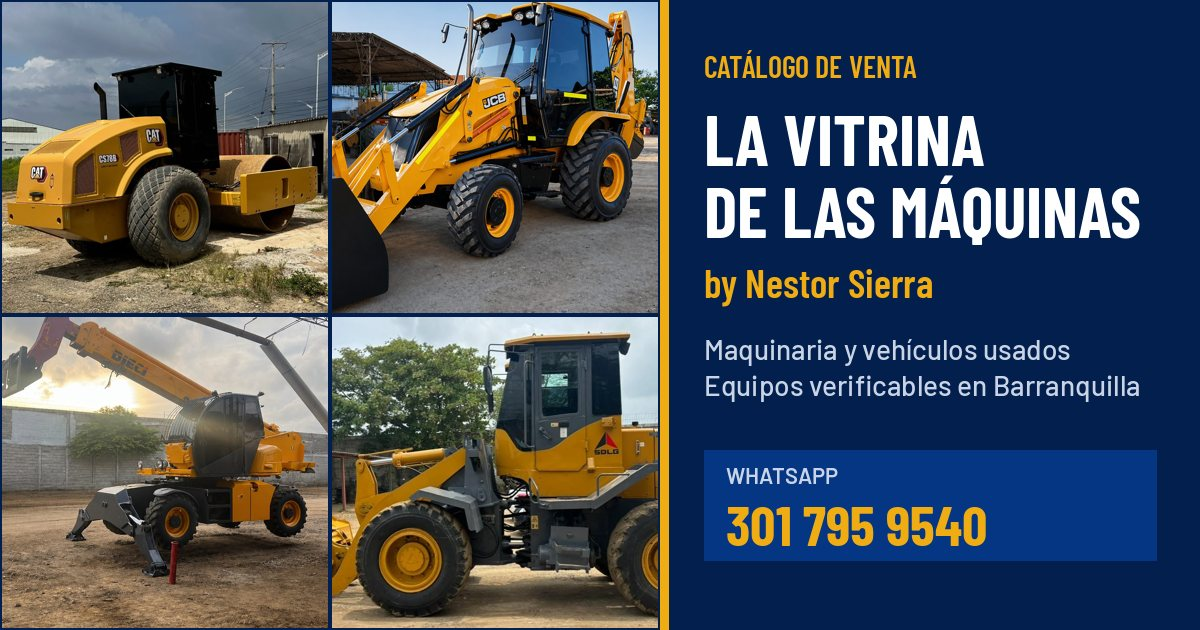
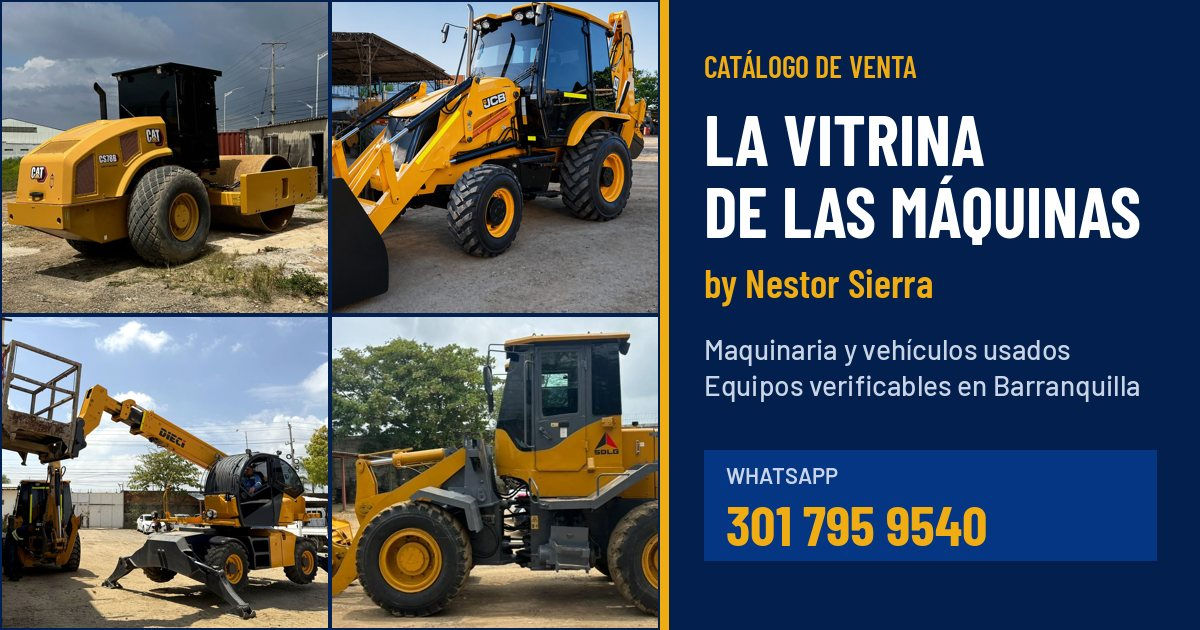
Nueva foto del Dieci Pegasus 38.16
Claude-Session: https://claude.ai/code/session_01MM6jsyr7xuhLnbkmWTmaAm

Changed region(s): [[0.0, 0.4825, 0.2775, 1.0]]

diff --git a/index.html b/index.html
@@ -161,7 +161,7 @@ footer strong { color: var(--blanco); font-family: var(--display); font-size: 20
 <script>
 // precio y anio en número para ordenar; precio 0 = a consultar
 const EQUIPOS = [
-  { img: "img/dieci.jpg", tipo: "Elevación", cat: "Manipulador telescópico rotativo", nombre: "Dieci Pegasus 38.16", anio: 2018, uso: "6.000 h", precio: 200000000,
+  { img: "img/dieci2.jpg", tipo: "Elevación", cat: "Manipulador telescópico rotativo", nombre: "Dieci Pegasus 38.16", anio: 2018, uso: "6.000 h", precio: 200000000,
     specs: [["Capacidad máx.", "3.800 kg"], ["Altura de elevación", "15,7 m"], ["Giro de torreta", "400°"], ["Tracción", "4x4"]] },
   { img: "img/mg120_a.jpg", tipo: "Motoniveladoras", cat: "Motoniveladora", nombre: "Caterpillar 120G", anio: 2007, uso: "12.000 h", precio: 270000000,
     specs: [["Motor", "Caterpillar 3304"], ["Potencia", "125 hp"], ["Peso operativo", "11.500 kg aprox."], ["Transmisión", "6 avance / 6 reversa"]] },

diff --git a/equipos.js b/equipos.js
@@ -1,5 +1,5 @@
 const EQUIPOS = [
-  { img: "img/dieci.jpg", tipo: "Elevación", cat: "Manipulador telescópico rotativo", nombre: "Dieci Pegasus 38.16", anio: 2018, uso: "6.000 h", precio: 200000000,
+  { img: "img/dieci2.jpg", tipo: "Elevación", cat: "Manipulador telescópico rotativo", nombre: "Dieci Pegasus 38.16", anio: 2018, uso: "6.000 h", precio: 200000000,
     specs: [["Capacidad máx.", "3.800 kg"], ["Altura de elevación", "15,7 m"], ["Giro de torreta", "400°"], ["Tracción", "4x4"]] },
   { img: "img/mg120_a.jpg", tipo: "Motoniveladoras", cat: "Motoniveladora", nombre: "Caterpillar 120G", anio: 2007, uso: "12.000 h", precio: 270000000,
     specs: [["Motor", "Caterpillar 3304"], ["Potencia", "125 hp"], ["Peso operativo", "11.500 kg aprox."], ["Transmisión", "6 avance / 6 reversa"]] },
